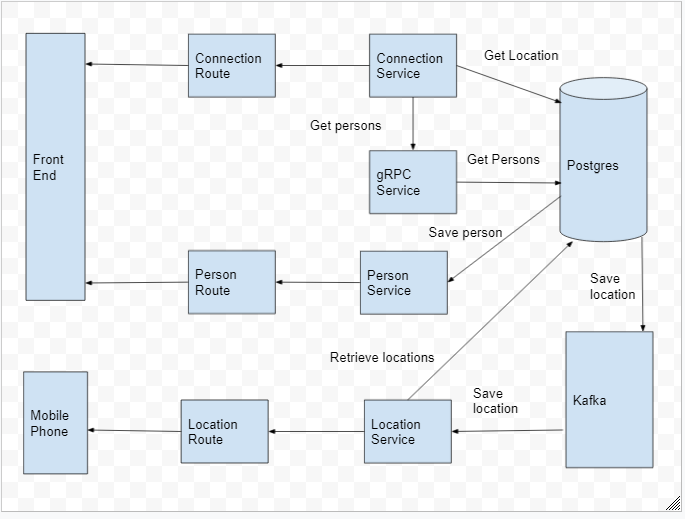
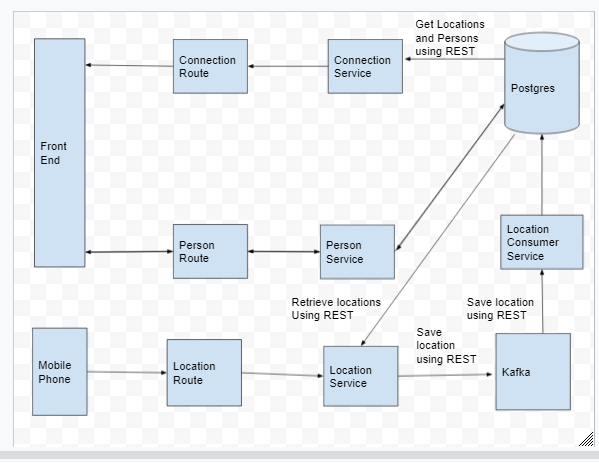
Fix errors from review feedback and add openapi doc

diff --git a/modules/frontend/src/components/Connection.js b/modules/frontend/src/components/Connection.js
@@ -22,7 +22,7 @@ class Connection extends Component {
     if (personId) {
       // TODO: endpoint should be abstracted into a config variable
       fetch(
-        `http://localhost:30001/api/persons/${personId}/connection?start_date=2020-01-01&end_date=2020-12-30&distance=5`
+        `http://localhost:30007/api/persons/${personId}/connection?start_date=2020-01-01&end_date=2020-12-30&distance=5`
       )
         .then((response) => response.json())
         .then((connections) =>

diff --git a/modules/frontend/src/components/Persons.js b/modules/frontend/src/components/Persons.js
@@ -5,7 +5,7 @@ class Persons extends Component {
   constructor(props) {
     super(props);
     // TODO: endpoint should be abstracted into a config variable
-    this.endpoint_url = "http://localhost:30001/api/persons";
+    this.endpoint_url = "http://localhost:30009/api/persons";
     this.state = {
       persons: [],
       display: null,

diff --git a/modules/connection-api/app/udaconnect/services.py b/modules/connection-api/app/udaconnect/services.py
@@ -1,26 +1,16 @@
-import os
 import logging
 from datetime import datetime, timedelta
 from typing import Dict, List
-from datetime import datetime, timedelta
 
 from app import db
 from app.udaconnect.models import Connection, Location, Person
-
+from app.udaconnect.schemas import ConnectionSchema, LocationSchema, PersonSchema
+from geoalchemy2.functions import ST_AsText, ST_Point
 from sqlalchemy.sql import text
 
-import grpc
-#from . import person_pb2 as person_pb2
-#from . import person_pb2_grpc as person_pb2_grpc
-
-import person_pb2
-import person_pb2_grpc
-
-
 logging.basicConfig(level=logging.WARNING)
-logger = logging.getLogger("connection-api")
+logger = logging.getLogger("udaconnect-api")
 
-PERSONS_GRPC_URL = os.environ.get("PERSONS_GRPC_URL")
 
 class ConnectionService:
     @staticmethod
@@ -90,26 +80,55 @@ class ConnectionService:
 
         return result
 
+
+class LocationService:
+    @staticmethod
+    def retrieve(location_id) -> Location:
+        location, coord_text = (
+            db.session.query(Location, Location.coordinate.ST_AsText())
+            .filter(Location.id == location_id)
+            .one()
+        )
+
+        # Rely on database to return text form of point to reduce overhead of conversion in app code
+        location.wkt_shape = coord_text
+        return location
+
+    @staticmethod
+    def create(location: Dict) -> Location:
+        validation_results: Dict = LocationSchema().validate(location)
+        if validation_results:
+            logger.warning(f"Unexpected data format in payload: {validation_results}")
+            raise Exception(f"Invalid payload: {validation_results}")
+
+        new_location = Location()
+        new_location.person_id = location["person_id"]
+        new_location.creation_time = location["creation_time"]
+        new_location.coordinate = ST_Point(location["latitude"], location["longitude"])
+        db.session.add(new_location)
+        db.session.commit()
+
+        return new_location
+
+
 class PersonService:
     @staticmethod
+    def create(person: Dict) -> Person:
+        new_person = Person()
+        new_person.first_name = person["first_name"]
+        new_person.last_name = person["last_name"]
+        new_person.company_name = person["company_name"]
+
+        db.session.add(new_person)
+        db.session.commit()
+
+        return new_person
+
+    @staticmethod
+    def retrieve(person_id: int) -> Person:
+        person = db.session.query(Person).get(person_id)
+        return person
+
+    @staticmethod
     def retrieve_all() -> List[Person]:
-        persons = []
-
-        channel = grpc.insecure_channel(PERSONS_GRPC_URL)
-        stub =  person_pb2_grpc.PersonServiceStub(channel)
-
-        response = stub.Get(person__pb2.Empty())
-
-        for p in response.persons:
-            person = Person()
-            person.id = p.id
-            person.first_name = p.first_name
-            person.last_name = p.last_name
-            person.company_name = p.company_name
-            persons.append(person)
-        return persons
-
-
- 
-
- 
+        return db.session.query(Person).all()

diff --git a/modules/connection-api/app/udaconnect/controllers.py b/modules/connection-api/app/udaconnect/controllers.py
@@ -15,8 +15,6 @@ DATE_FORMAT = "%Y-%m-%d"
 api = Namespace("UdaConnect", description="Connections via geolocation.")  # noqa
 
 
-# TODO: This needs better exception handling
-
 @api.route("/persons/<person_id>/connection")
 @api.param("start_date", "Lower bound of date range", _in="query")
 @api.param("end_date", "Upper bound of date range", _in="query")

diff --git a/modules/location-producer-api/app/udaconnect/controllers.py b/modules/location-producer-api/app/udaconnect/controllers.py
@@ -13,9 +13,6 @@ DATE_FORMAT = "%Y-%m-%d"
 api = Namespace("UdaConnect", description="Connections via geolocation.")  # noqa
 
 
-# TODO: This needs better exception handling
-
-
 @api.route("/locations")
 @api.route("/locations/<location_id>")
 @api.param("location_id", "Unique ID for a given Location", _in="query")

diff --git a/modules/person-api/app/udaconnect/controllers.py b/modules/person-api/app/udaconnect/controllers.py
@@ -15,11 +15,6 @@ DATE_FORMAT = "%Y-%m-%d"
 
 api = Namespace("UdaConnect", description="Connections via geolocation.")  # noqa
 
-
-# TODO: This needs better exception handling
-
-
-
 @api.route("/persons")
 class PersonsResource(Resource):
     @accepts(schema=PersonSchema)
